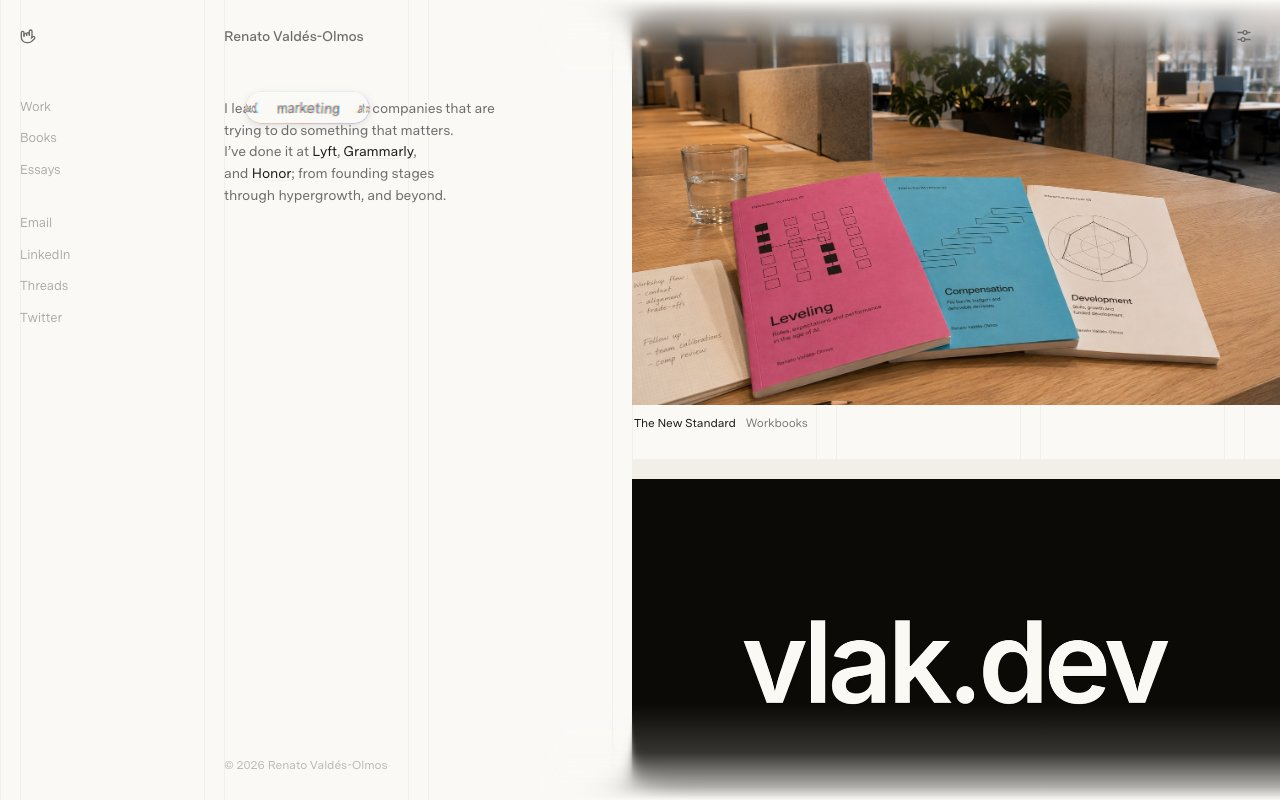
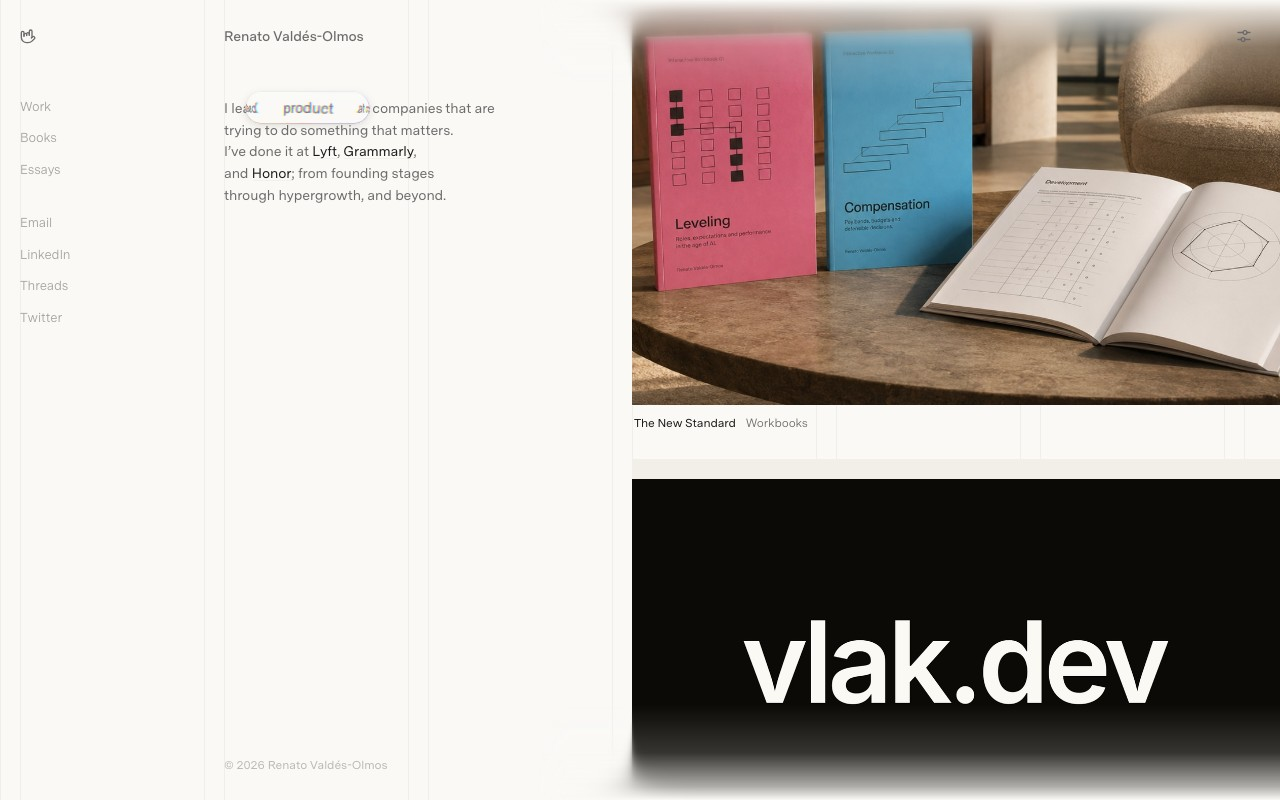
Refresh personal site preview and tighten workflow cards

Changed region(s): [[0.4688, 0.0, 1.0, 0.5312], [0.2188, 0.125, 0.2812, 0.1562]]

diff --git a/apps/www/lib/site-search-index.ts b/apps/www/lib/site-search-index.ts
@@ -36,7 +36,7 @@ const destinations = [
     entry(`/workflows/${kit.id}/manifest/`, `${kit.title} manifest`, `States, adapters, ownership, installation and acceptance for the ${kit.title.toLowerCase()} workflow.`, "Workflow kits", [kit.id, "Manifest", "Contract"]),
   ]),
   entry("/starters/", "Starters", "Small Vite and Next.js projects with the package, stylesheet, and a working form already connected.", "Guides", ["Starter", "Vite", "Next.js", "Templates", "StackBlitz"]),
-  entry("/showcase/", "Built with Vlak", "Products and experiments built with Vlak, with a public path for submitting your own work.", "Site", ["Showcase", "Community", "Badge", "Submit project", "Tax Scratchpad", "Nicholas Pulido", "NPUX", "Noord", "Renn", "renatovaldes.com"]),
+  entry("/showcase/", "Built with Vlak", "Products and experiments built with Vlak, with a public path for submitting your own work.", "Site", ["Showcase", "Community", "Badge", "Submit project", "Tax Scratchpad", "Nicholas Pulido", "NPUX", "Noord", "Personal Site", "Renn", "renatovaldes.com"]),
   entry("/ai/widgets/", "Widget patterns", "Compose application content, third-party React widgets, and embedded provider pages.", "Guides", ["Integrations", "Iframe", "Widget design system"]),
   entry("/use-cases/", "Use cases", "Components and studies for enterprise, consumer, agent, data, science, healthcare, and industrial software.", "Site"),
   entry("/", "Vlak", "A minimal React design system with monochrome surfaces, accessible controls, and CSS tokens.", "Site", ["Home", "Design system"]),

diff --git a/apps/www/app/workflows/workflows.css b/apps/www/app/workflows/workflows.css
@@ -3,11 +3,11 @@
 
 .workflow-catalog-grid { display: grid; grid-template-columns: repeat(2, minmax(0, 1fr)); gap: 20px; margin-top: 32px; }
 .workflow-card { min-width: 0; display: flex; flex-direction: column; border: 1px solid var(--divider); background: var(--bg); }
-.workflow-card-copy { flex: 1; display: flex; flex-direction: column; min-height: 260px; padding: 20px; }
+.workflow-card-copy { flex: 1; display: flex; flex-direction: column; padding: 20px; }
 .workflow-card-copy :is(h2, p) { margin: 0; }
 .workflow-card-copy h2 { margin-top: 8px; font-size: 1.25rem; line-height: 1.2; }
 .workflow-card-copy > p:last-of-type { margin-top: 12px; color: var(--text-secondary); font-size: .875rem; line-height: 1.55; }
-.workflow-card-actions { display: grid; grid-template-columns: repeat(2, minmax(0, 1fr)); gap: 8px; margin-top: 20px; }
+.workflow-card-actions { display: grid; grid-template-columns: repeat(2, minmax(0, 1fr)); gap: 8px; margin-top: auto; padding-top: 20px; }
 .workflow-page-actions { display: flex; flex-wrap: wrap; gap: 8px; }
 .workflow-card-actions > a, .workflow-page-actions > a { min-height: 44px; padding-inline: 14px; text-decoration: none; }
 .workflow-page-actions { margin-top: 20px; }

diff --git a/apps/www/app/showcase/page.tsx b/apps/www/app/showcase/page.tsx
@@ -15,7 +15,7 @@ const submitUrl = "https://github.com/Noord-Ventures/vlak/issues/new?template=sh
 const projects = [
   { name: "Tax Scratchpad", url: "https://taxscratchpad.npux.design/", domain: "taxscratchpad.npux.design", image: "/showcase/tax-scratchpad.jpg", description: "A local workspace for exploring hypothetical 2025 federal tax scenarios, comparing assumptions, and tracing the calculations.", author: "Nicholas Pulido · NPUX", post: "https://x.com/NickP_UX/status/2097890666198249625" },
   { name: "Noord", url: "https://noord.dev/", domain: "noord.dev", image: "/showcase/noord.jpg", description: "An applied design lab working on interfaces and visual learning. Home to Vlak.", author: "Noord" },
-  { name: "Renn", url: "https://www.renatovaldes.com/", domain: "renatovaldes.com", image: "/showcase/renn.jpg", description: "A personal website bringing together work, books, and essays.", author: "Renn" },
+  { name: "Personal Site", url: "https://www.renatovaldes.com/", domain: "renatovaldes.com", image: "/showcase/renn.jpg", description: "A personal website bringing together work, books, and essays.", author: "Renn" },
 ];
 
 export default function ShowcasePage() {

diff --git a/docs/showcase-sources.md b/docs/showcase-sources.md
@@ -6,6 +6,8 @@ Verified on 11 September 2026. The project owner requested these three entries. 
 | --- | --- | --- |
 | Tax Scratchpad | https://taxscratchpad.npux.design/ | Nicholas Pulido · NPUX. The original post explicitly credits Vlak: https://x.com/NickP_UX/status/2097890666198249625. Its follow-up links the demo: https://x.com/NickP_UX/status/2097890667691487535. |
 | Noord | https://noord.dev/ | Noord. The site links to Vlak as its design system. |
-| Renn | https://www.renatovaldes.com/ | Renn. Included at the site owner's request. |
+| Personal Site | https://www.renatovaldes.com/ | Renn. Included at the site owner's request. |
 
 The three JPEG previews in `apps/www/public/showcase/` are browser captures of the public pages at 1280 × 800, in light mode. Tax Scratchpad uses the initial sample scenario. No customer data or authenticated pages were used. Updating these previews is an editorial task, not a network dependency in the build.
+
+The Personal Site preview was refreshed after the owner changed the books photograph to `workbook-lounge.jpg`. The capture waits for the live rotating role bubble to display “product”; the page text is not replaced for the screenshot.
